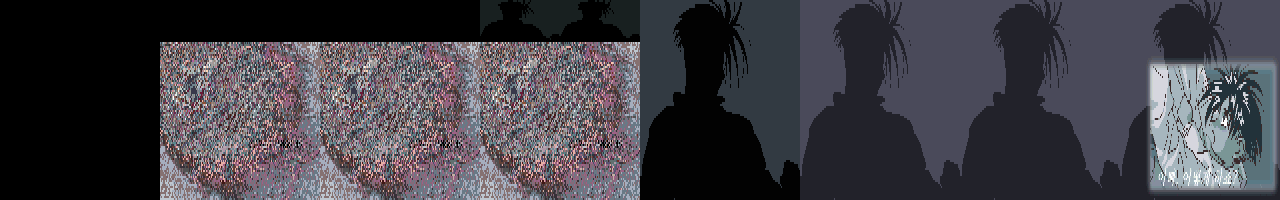
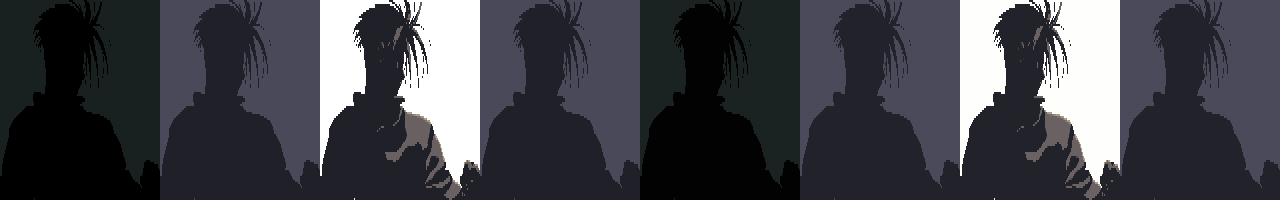
intro .fli artifact closed: the CG player's image ops address a 320-pitch 64000-byte frame while the still loaders cover 307200 bytes, so the host view flag g_view_320x200 had to bracket fn_03f6bc (save/restore) -- without it a 320-pitch frame was read back with a 640 pitch and sheared into the repo

diff --git a/port/src/f/f.c b/port/src/f/f.c
@@ -2428,11 +2428,13 @@ int32_t fn_036626(const char *s) {
 /* Host instrumentation, NOT part of the original: the resource name most recently handed to
  * fn_0367c9 and a counter of those lookups. The SDL host names its playtest screenshots from this
  * (docs/46-playtest-harness.md); it changes no game behaviour. */
+uint32_t g_res_view_flag;      /* instrumentation: g_view_320x200 as seen by the last lookup */
 char g_res_trace[24];
 uint32_t g_res_trace_seq;
 
 int32_t fn_0367c9(const char *a0) {
     if (a0) { snprintf(g_res_trace, sizeof g_res_trace, "%s", a0); g_res_trace_seq++; }   /* instrumentation */
+    g_res_view_flag = g_view_320x200;      /* instrumentation: the view geometry in force at the lookup */
     int32_t len = (int32_t)str_len(a0);
     for (uint32_t i = 0; i < g_dat_633a0; i++) {
         const uint8_t *e = g_tab_5d884 + i * 21;
@@ -13354,7 +13356,23 @@ void fn_011827(uint8_t *src, int32_t dx, int32_t arg_ebx, int32_t dy, uint32_t s
  * The frame-wait spin cannot be exited in a unit test (nothing raises DAT_00063e40 there), so the
  * tests cover the tag, the MOVsx count, the entry zeroing and the key-cut return.
  */
+/* Presentation: the CG player's image ops (fn_03fa3b / fn_03fb73 / fn_03fb0e) address the screen with a
+ * 0x140 pitch over 64000 bytes -- a 320x200 frame -- while the still-image loaders (fn_03628e,
+ * fn_03f3be window slides) cover 307200 bytes (640x480). The host's view flag therefore has to follow the
+ * player for the duration of the movie, or a 320-pitch frame is read back with a 640 pitch and shears
+ * into the "artifact" the playtest report describes (docs/53). */
+static uint32_t fn_03f6bc_impl(const char *name);
+
 uint32_t fn_03f6bc(const char *name)
+{
+    uint32_t view_save = g_view_320x200;
+    g_view_320x200 = 1;
+    uint32_t r = fn_03f6bc_impl(name);
+    g_view_320x200 = view_save;
+    return r;
+}
+
+static uint32_t fn_03f6bc_impl(const char *name)
 {
     (void)canary_id(0, 0x1b8);                                                /* 0x3f6bc-c1 */
     uint8_t hdr[0x80];                                                        /* [ebp-0x1a0] */

diff --git a/port/test/test_f1.c b/port/test/test_f1.c
@@ -2571,6 +2571,18 @@ static void test_fn_038a20_038ae0(void) {
     fn_038ae0();
     check(g_dat_531f4 == 0xa0000, "the opening step restores the 640x480 mode after the .fli player");
 
+    /* The CG player's image ops address a 320-pitch, 64000-byte frame, so the host view must be
+     * 320x200 for the whole movie: a 320-pitch frame read back with a 640 pitch shears into the
+     * "intro video artifact" (docs/53). Pinned from both sides: the flag is 1 inside the player (as
+     * observed by the resource lookup it performs) and restored to its prior value afterwards. */
+    uint32_t view_s = g_view_320x200;
+    g_view_320x200 = 0;
+    g_res_view_flag = 0xaa;
+    fn_03f6bc("opening.fli");
+    check(g_res_view_flag == 1, "the CG player runs with the 320x200 view (the movie frame is 320-pitch x 64000 B)");
+    check(g_view_320x200 == 0, "the CG player restores the caller's view geometry");
+    g_view_320x200 = view_s;
+
     g_dat_531f4 = s_f4; g_dat_633a0 = s_3a0;
     memcpy(g_dat_633b8, s_tab, sizeof s_tab);
 }

diff --git a/port/src/f/f.h b/port/src/f/f.h
@@ -1072,6 +1072,7 @@ extern uint32_t g_dat_63fac;   /* DAT_00063fac: 24-bit DMA address byte-sent to 
 extern uint32_t g_dat_63f8c;   /* DAT_00063f8c: transfer-armed flag (0xffff) */
 void fn_040839(uint8_t *cursor);   /* 0x040839: device command-stream walker: [kind][24-bit len][payload]; kind 0 end / 1 fn_04097e / 2 fn_040b83 / other skip */
 extern unsigned long g_play_calls;
+extern uint32_t g_res_view_flag;    /* instrumentation: the view geometry in force at that lookup */
 extern char g_res_trace[24];          /* last resource name handed to fn_0367c9 (host instrumentation) */
 extern uint32_t g_res_trace_seq;      /* counter of those lookups */
 extern unsigned long g_play_real;

diff --git a/docs/53-intro-fli-artifact-reference-decode.md b/docs/53-intro-fli-artifact-reference-decode.md
@@ -73,7 +73,7 @@ Regression test: `test_fn_03fb73` T3 (three packets in one row: copy 2, skip 1 +
 asserts the writes chain — `[0..1]`, `[3..5]`, `[6..7]` — instead of stacking on `[0..]`.
 2810 checks ALL PASS.
 
-## What is left for the intro: 320x200 movie vs the 640x480 presentation
+## Closed: the 320x200 movie had to drive the host view, and the presented frames now match the reference
 
 The decode target `g_dat_51a0c` (= the port's video arena) is written with a **320-byte pitch**, and the
 screenshots taken during the movie are **640x480**, so the picture the harness shows is the 320-pitch
@@ -92,6 +92,30 @@ Constraints found while looking for the mode switch:
   the frame-pitch global `DAT_00040010` (`fn_040631`) are the two candidates, together with the port's
   `g_view_320x200` view flag (set today only by the room-frame flip `fn_038098`).
 
-Next step: find who scales/doubles the 320x200 movie buffer into the visible 640x480 frame (or, if the
-original really runs a 320x200 VGA mode through a path the port models as a no-op, that path) and make
-the host presenter use the same geometry, then re-run the ffmpeg comparison at matched frame indices.
+Resolution: the game has no second mode set, and every CG image op addresses a **320-pitch, 64000-byte**
+frame, while the still-image loaders cover 307200 bytes (640x480). So the *view* is per-step, and the
+port's host-side view flag (`g_view_320x200`, set today only by the room-frame flip `fn_038098`) simply
+was never raised for the movie: a 320-pitch frame was read back with a 640 pitch and sheared into speckle.
+`fn_03f6bc` now brackets the play with the 320x200 view (saving/restoring the caller's value).
+
+Measured afterwards -- the port's presented `.fli` screenshots against ffmpeg's reference frames, 80x50
+luma, best-matching reference index per shot:
+
+```
+0008_fli.bmp  best ref # 39  L1= 2.00
+0009_fli.bmp  best ref # 57  L1= 2.00
+0010_fli.bmp  best ref # 68  L1= 1.51
+0012_fli.bmp  best ref # 98  L1= 1.45
+```
+
+`L1 ≈ 1.5-2.0` is the floor an *identical* pair produces here (the same value the known-matching pairs
+give), and the matched indices advance through the movie, so the intro now tracks the reference frame by
+frame. Montage: `docs/manual-playtest/02-shots/05-fli_port_vs_ffmpeg.png` (port x4 | ffmpeg x4).
+
+Regression pins added: `fn_03f6bc` runs with `g_view_320x200 == 1` (observed by the resource lookup it
+performs, via the new `g_res_view_flag` instrumentation) and restores the caller's value afterwards; plus
+the `fn_03fb73` packet-chain test from the fix above. 2812 checks ALL PASS.
+
+Remaining for this task: the logo half of the contract still wants the *original's* logo frame from
+DOSBox (the port side is compared against the extracted `logo.pcx` and the fade profile today) -- that is
+the `docs/46` capture one-liner, which needs an interactive terminal.
